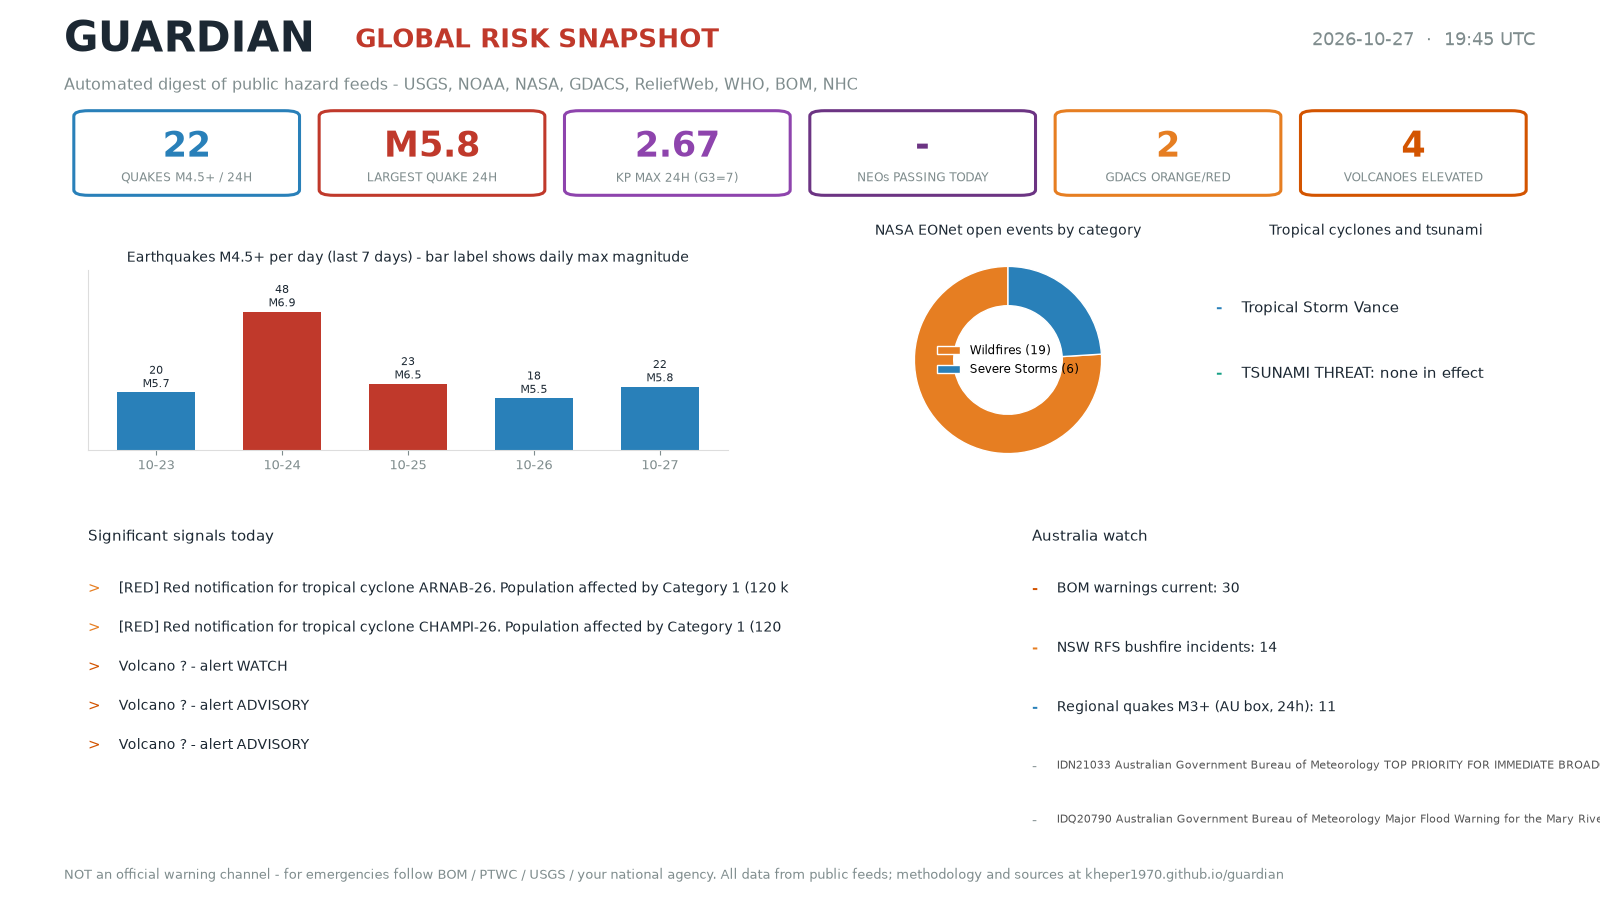
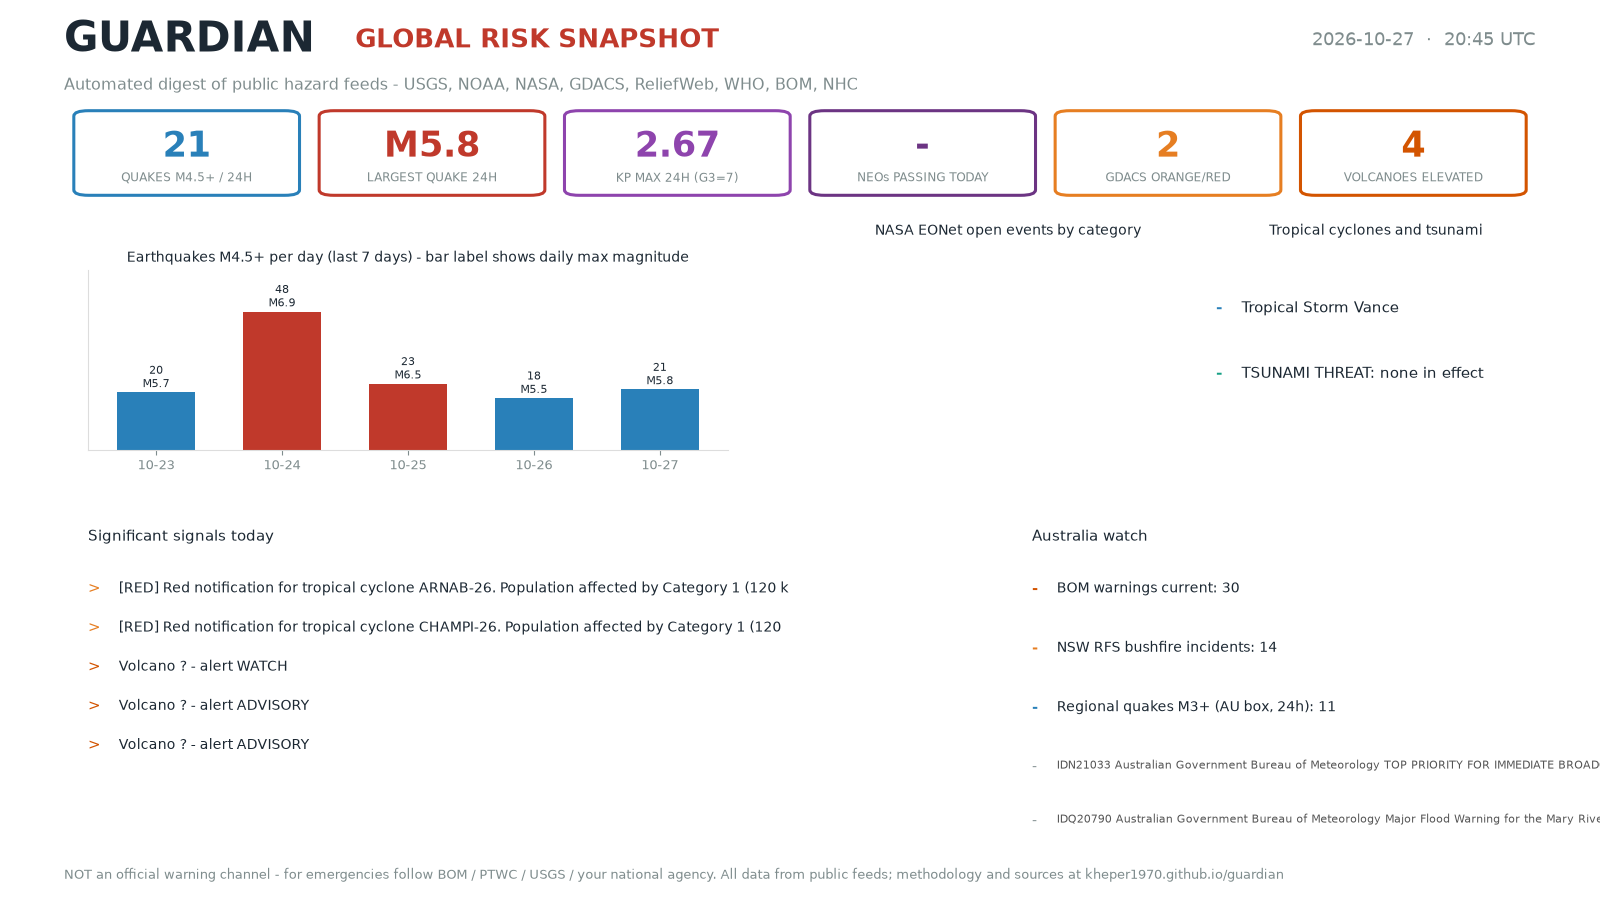
Automated update 2026-10-27T20:50Z

Changed region(s): [[0.5625, 0.28, 0.6875, 0.5289], [0.4062, 0.4044, 0.4375, 0.4356]]

diff --git a/briefing/briefing_2026-10-27.html b/briefing/briefing_2026-10-27.html
@@ -80,7 +80,7 @@ or your national emergency agency.</p>
 <h1>Guardian daily briefing — 2026-10-27</h1>
 <p>Generated automatically from public feeds (USGS, NOAA, NASA, WHO, GDACS, ReliefWeb, EONet, Google News). All times UTC.</p>
 <h2>Earthquakes (M4.5+, last 24h)</h2>
-<p>Count: 23
+<p>Count: 22
 - M5.8 196 km NW of Port-Olry, Vanuatu (2026-10-27 08:55 UTC)
 - M5.4 210 km ENE of Nagqu, China (2026-10-27 18:57 UTC)
 - M5.4 128 km S of Pundong, Indonesia (2026-10-27 14:44 UTC)
@@ -89,7 +89,7 @@ or your national emergency agency.</p>
 - M5 27 km W of Río Grande, Panama (2026-10-27 15:26 UTC)
 - M5 184 km NW of Port-Olry, Vanuatu (2026-10-27 10:06 UTC)
 - M5 206 km NW of Port-Olry, Vanuatu (2026-10-27 09:20 UTC)
-- ...and 15 more</p>
+- ...and 14 more</p>
 <h2>Space weather</h2>
 <ul>
 <li>Kp now: 1.0; max last 24h: 2.67 (storm threshold G3 = Kp 7.0)</li>
@@ -156,17 +156,17 @@ or your national emergency agency.</p>
 </li>
 <li>Famine in Sudan: Nearly 20 million people face food insecurity - The Tanzania Times (Tue, 27 Oct 2026)</li>
 <li>Africa hunger: Report reveals up to 165M people could need food aid by April 2027 - People Daily (Tue, 27 Oct 2026)</li>
-<li>Food insecurity and child malnutrition worsen in Afghanistan despite strong agricultural season - World Food Program USA (Thu, 15 Oct 2026)</li>
-<li>Sudan: Famine Risk Is Rising in Sudan As 19.5 Million Face Acute Hunger - UK-Led Warning - allAfrica.com (Mon, 26 Oct 2026)</li>
 <li>UK households urged to prepare for emergencies and ‘attacks’. Here's what to buy - The Independent (Tue, 27 Oct 2026)</li>
+<li>Somalia - UN World Food Programme (Mon, 24 Aug 2026)</li>
+<li>Sudan: Famine Risk Is Rising in Sudan As 19.5 Million Face Acute Hunger - UK-Led Warning - allAfrica.com (Mon, 26 Oct 2026)</li>
 </ul>
 <h2>Australia watch (ABC News, NSW RFS, USGS AU quakes, GNews AU, health.gov.au)</h2>
 <ul>
-<li>Man charged over allegedly false Bondi terror attack injury claim (Tue, 27 Oct 2026)</li>
-<li>Women at NSW correctional facility left without access to period products (Tue, 27 Oct 2026)</li>
-<li>More supervision of university exams to combat AI use (Tue, 27 Oct 2026)</li>
-<li>A watered down ICAC gets called up for a full-bodied political scandal (Tue, 27 Oct 2026)</li>
-<li>Council removes former mayor's name from plaques after assault of teen (Tue, 27 Oct 2026)</li>
+<li>Trump embarks on Texas campaign swing to shore up votes for lagging ally (Tue, 27 Oct 2026)</li>
+<li>Live: ASX poised to edge up ahead of inflation release (Tue, 27 Oct 2026)</li>
+<li>Australia clawed its way back into the third Test, but big challenges await (Tue, 27 Oct 2026)</li>
+<li>Live: Australia Post CEO reveals 'mind-blowing' bonus (Tue, 27 Oct 2026)</li>
+<li>One Nation colouring book intended for kids depicts Bluey being robbed (Tue, 27 Oct 2026)</li>
 <li>NSW RFS current incidents: 14 (0 at Warning level)</li>
 <li>AU-region quakes (24h): 11, max M4.8</li>
 <li>M3.5 9 km NE of Korumburra, Australia</li>
@@ -174,14 +174,14 @@ or your national emergency agency.</p>
 <li>M4.8 41 km WNW of Kupang, Indonesia</li>
 <li>AU emergency headlines:</li>
 <li>‘Hold onto your hat’: Gusty winds in Western Australia as Queensland hit with more storms - News24 (Tue, 27 Oct 2026)</li>
+<li>Should Australians be preparing for disaster? Some are – but don’t call them ‘preppers’ - The Conversation (Tue, 27 Oct 2026)</li>
+<li>Former councillor dies in floodwaters on Queensland's Fraser Coast - ABC News &amp; Headlines – Australian Broadcasting Corporation (Tue, 27 Oct 2026)</li>
 <li>Aircraft Deployed Early to Protect WA Grain Growers - Mirage News (Tue, 27 Oct 2026)</li>
 <li>Flood warnings and water shortages after storm - Yahoo News Australia (Mon, 26 Oct 2026)</li>
-<li>Woman spearheads bushfire safety push after friends 'didn't know what to do' - ABC News &amp; Headlines – Australian Broadcasting Corporation (Mon, 26 Oct 2026)</li>
-<li>Dairy farmer and former councillor found dead in Queensland floods - Nine.com.au (Mon, 26 Oct 2026)</li>
 <li>Urban assaults, fighter jets and winching over water - Defence News (Tue, 27 Oct 2026)</li>
 <li>Japan, Australia, US should build a second-island-chain air bridge - The Strategist | ASPI's analysis and commentary site (Tue, 27 Oct 2026)</li>
 <li>Crude Awakening: How Australia Ranks on Fuel Security - Climate Council (Tue, 27 Oct 2026)</li>
-<li>Australia introduces new legislation to protect Defence bases, personnel from drones - www.defenceconnect.com.au (Tue, 27 Oct 2026)</li>
+<li>MP calls for rethink of pre-poll voting amid heightened security concerns in wake of Haines incident - The Guardian (Tue, 27 Oct 2026)</li>
 <li>health.gov.au:</li>
 <li>Survey: In-home aged care service list review</li>
 <li>Hearing Services Program provider notice 2026-11 – Provider webinar</li>

diff --git a/index.html b/index.html
@@ -85,8 +85,8 @@ or your national emergency agency.</p>
 refreshes with every publish.</p>
 </div>
 <div class="card"><h2 style="margin-top:0">Latest snapshot statistics</h2>
-<div class="statgrid"><div class="stat"><div class="n">22</div><div class="l">quakes M4.5+ / 24h</div></div><div class="stat"><div class="n">M5.8</div><div class="l">largest quake</div></div><div class="stat"><div class="n">2.67</div><div class="l">Kp max 24h</div></div><div class="stat"><div class="n">None</div><div class="l">NEOs today</div></div><div class="stat"><div class="n">2</div><div class="l">GDACS orange/red</div></div><div class="stat"><div class="n">4</div><div class="l">volcanoes elevated</div></div></div>
-<p style="color:#666666;font-size:.9rem">Snapshot taken 2026-10-27T19:45:01.688425+00:00 UTC.
+<div class="statgrid"><div class="stat"><div class="n">21</div><div class="l">quakes M4.5+ / 24h</div></div><div class="stat"><div class="n">M5.8</div><div class="l">largest quake</div></div><div class="stat"><div class="n">2.67</div><div class="l">Kp max 24h</div></div><div class="stat"><div class="n">None</div><div class="l">NEOs today</div></div><div class="stat"><div class="n">2</div><div class="l">GDACS orange/red</div></div><div class="stat"><div class="n">4</div><div class="l">volcanoes elevated</div></div></div>
+<p style="color:#666666;font-size:.9rem">Snapshot taken 2026-10-27T20:45:01.969691+00:00 UTC.
 Open the <a href="briefing/briefing_2026-10-27.html">full briefing</a> for details and sources.</p>
 </div>
 <div class="card"><h2 style="margin-top:0">Daily infographic</h2>

diff --git a/briefing/briefing_2026-10-27.md b/briefing/briefing_2026-10-27.md
@@ -3,7 +3,7 @@
 Generated automatically from public feeds (USGS, NOAA, NASA, WHO, GDACS, ReliefWeb, EONet, Google News). All times UTC.
 
 ## Earthquakes (M4.5+, last 24h)
-Count: 23
+Count: 22
 - M5.8 196 km NW of Port-Olry, Vanuatu (2026-10-27 08:55 UTC)
 - M5.4 210 km ENE of Nagqu, China (2026-10-27 18:57 UTC)
 - M5.4 128 km S of Pundong, Indonesia (2026-10-27 14:44 UTC)
@@ -12,7 +12,7 @@ Count: 23
 - M5 27 km W of Río Grande, Panama (2026-10-27 15:26 UTC)
 - M5 184 km NW of Port-Olry, Vanuatu (2026-10-27 10:06 UTC)
 - M5 206 km NW of Port-Olry, Vanuatu (2026-10-27 09:20 UTC)
-- ...and 15 more
+- ...and 14 more
 
 ## Space weather
 - Kp now: 1.0; max last 24h: 2.67 (storm threshold G3 = Kp 7.0)
@@ -72,16 +72,16 @@ Count: None
 - #Video_News: Drought, food shortages and child malnutrition deepen humanitarian needs in Afar, Amhara and Tigray watch - Facebook (Tue, 27 Oct 2026)
 - Famine in Sudan: Nearly 20 million people face food insecurity - The Tanzania Times (Tue, 27 Oct 2026)
 - Africa hunger: Report reveals up to 165M people could need food aid by April 2027 - People Daily (Tue, 27 Oct 2026)
-- Food insecurity and child malnutrition worsen in Afghanistan despite strong agricultural season - World Food Program USA (Thu, 15 Oct 2026)
-- Sudan: Famine Risk Is Rising in Sudan As 19.5 Million Face Acute Hunger - UK-Led Warning - allAfrica.com (Mon, 26 Oct 2026)
 - UK households urged to prepare for emergencies and ‘attacks’. Here's what to buy - The Independent (Tue, 27 Oct 2026)
+- Somalia - UN World Food Programme (Mon, 24 Aug 2026)
+- Sudan: Famine Risk Is Rising in Sudan As 19.5 Million Face Acute Hunger - UK-Led Warning - allAfrica.com (Mon, 26 Oct 2026)
 
 ## Australia watch (ABC News, NSW RFS, USGS AU quakes, GNews AU, health.gov.au)
-- Man charged over allegedly false Bondi terror attack injury claim (Tue, 27 Oct 2026)
-- Women at NSW correctional facility left without access to period products (Tue, 27 Oct 2026)
-- More supervision of university exams to combat AI use (Tue, 27 Oct 2026)
-- A watered down ICAC gets called up for a full-bodied political scandal (Tue, 27 Oct 2026)
-- Council removes former mayor's name from plaques after assault of teen (Tue, 27 Oct 2026)
+- Trump embarks on Texas campaign swing to shore up votes for lagging ally (Tue, 27 Oct 2026)
+- Live: ASX poised to edge up ahead of inflation release (Tue, 27 Oct 2026)
+- Australia clawed its way back into the third Test, but big challenges await (Tue, 27 Oct 2026)
+- Live: Australia Post CEO reveals 'mind-blowing' bonus (Tue, 27 Oct 2026)
+- One Nation colouring book intended for kids depicts Bluey being robbed (Tue, 27 Oct 2026)
 - NSW RFS current incidents: 14 (0 at Warning level)
 - AU-region quakes (24h): 11, max M4.8
   - M3.5 9 km NE of Korumburra, Australia
@@ -89,14 +89,14 @@ Count: None
   - M4.8 41 km WNW of Kupang, Indonesia
 - AU emergency headlines:
   - ‘Hold onto your hat’: Gusty winds in Western Australia as Queensland hit with more storms - News24 (Tue, 27 Oct 2026)
+  - Should Australians be preparing for disaster? Some are – but don’t call them ‘preppers’ - The Conversation (Tue, 27 Oct 2026)
+  - Former councillor dies in floodwaters on Queensland's Fraser Coast - ABC News &amp; Headlines – Australian Broadcasting Corporation (Tue, 27 Oct 2026)
   - Aircraft Deployed Early to Protect WA Grain Growers - Mirage News (Tue, 27 Oct 2026)
   - Flood warnings and water shortages after storm - Yahoo News Australia (Mon, 26 Oct 2026)
-  - Woman spearheads bushfire safety push after friends 'didn't know what to do' - ABC News &amp; Headlines – Australian Broadcasting Corporation (Mon, 26 Oct 2026)
-  - Dairy farmer and former councillor found dead in Queensland floods - Nine.com.au (Mon, 26 Oct 2026)
   - Urban assaults, fighter jets and winching over water - Defence News (Tue, 27 Oct 2026)
   - Japan, Australia, US should build a second-island-chain air bridge - The Strategist | ASPI's analysis and commentary site (Tue, 27 Oct 2026)
   - Crude Awakening: How Australia Ranks on Fuel Security - Climate Council (Tue, 27 Oct 2026)
-  - Australia introduces new legislation to protect Defence bases, personnel from drones - www.defenceconnect.com.au (Tue, 27 Oct 2026)
+  - MP calls for rethink of pre-poll voting amid heightened security concerns in wake of Haines incident - The Guardian (Tue, 27 Oct 2026)
 - health.gov.au:
   - Survey: In-home aged care service list review
   - Hearing Services Program provider notice 2026-11 – Provider webinar
